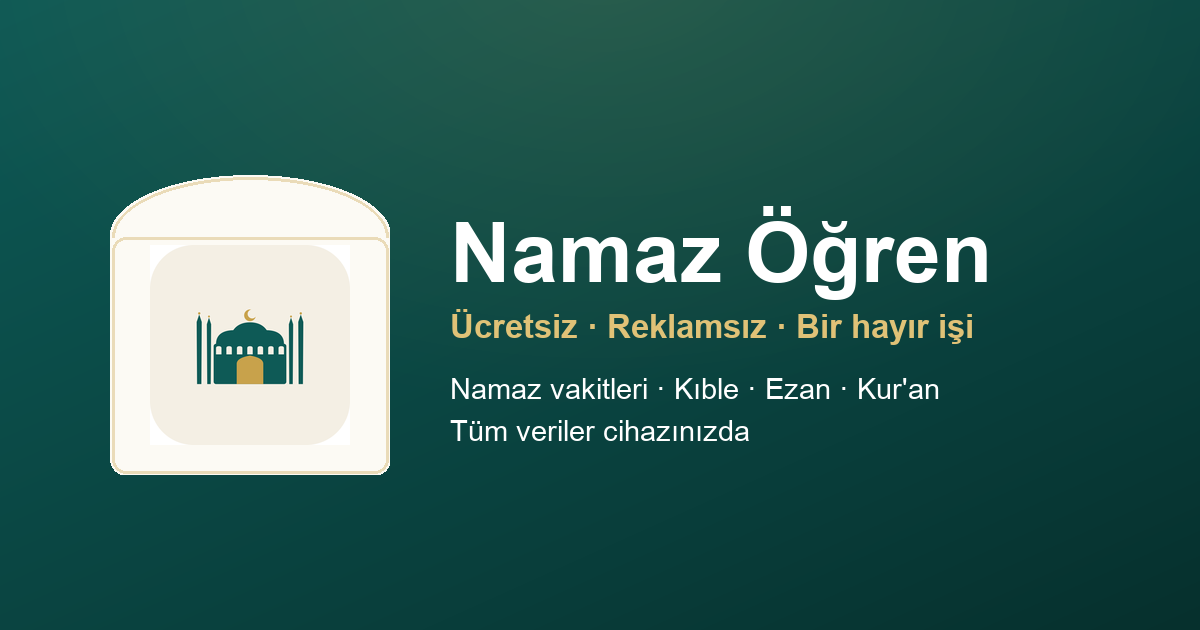
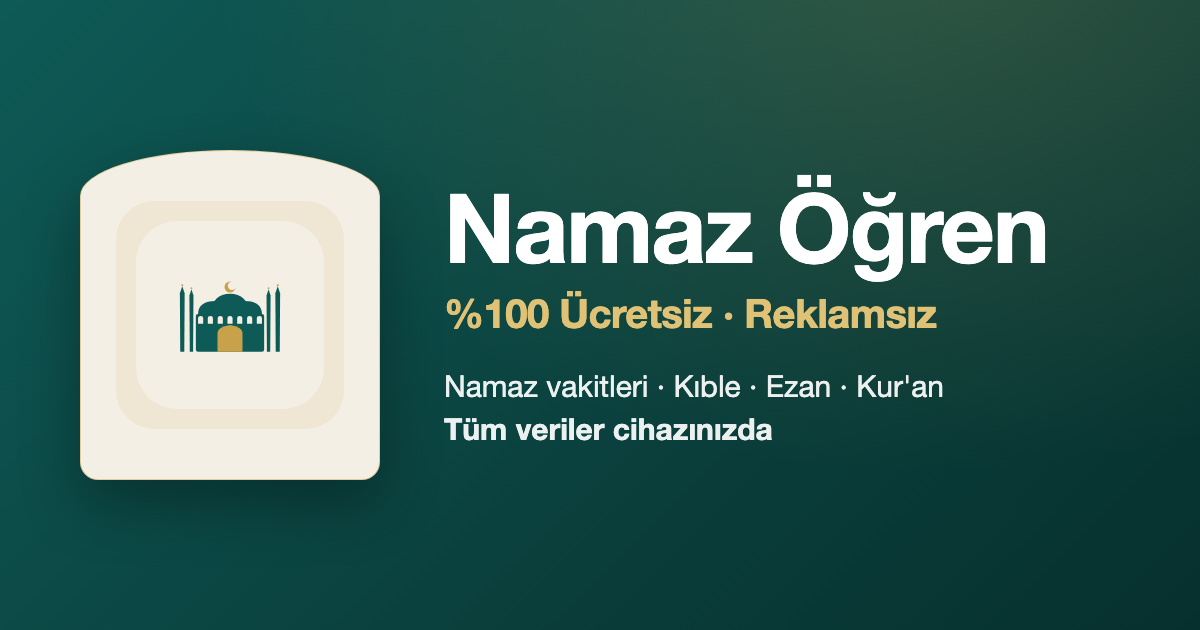
"Hayır işi / sadaka-i câriye" ifadeleri kaldırıldı → "%100 ücretsiz ve reklamsız"
Kullanıcı isteği: charity çerçevesi yerine sade "%100 ücretsiz · reklamsız" yeterli.

- Hero pill: "...· Bir hayır işi" → "...· Çevrimdışı çalışır" (🤲 kaldırıldı)
- Ücretsiz bandı: hayır işi/sadaka-i câriye/hayır duası metni → sade ücretsiz mesajı
  (em 🤲 → 💚)
- SSS, JSON-LD (SoftwareApplication+Organization+FAQPage), og/twitter description:
  hayır/sadaka ibareleri temizlendi
- Footer (index + privacy): "Bir hayır işi olarak sunulmaktadır 🤲" → "%100 ücretsiz ve reklamsız"
- privacy özet: "hayır amaçlı" → "ücretsiz ve reklamsız"
- og.png yeniden üretildi: tagline "Bir hayır işi" → "%100 Ücretsiz · Reklamsız" (tasarım korundu)

Not: SSS'teki "Hayır." (=No) cevapları korundu; footer duası korundu.

diff --git a/index.html b/index.html
@@ -28,7 +28,7 @@
 <meta property="og:site_name" content="Namaz Öğren" />
 <meta property="og:locale" content="tr_TR" />
 <meta property="og:title" content="Namaz Öğren — Ücretsiz namaz rehberi" />
-<meta property="og:description" content="Namazı öğren, vakitleri kaçırma, kıbleyi bul, Kur'an oku. %100 ücretsiz, reklamsız, hayır işi. Tüm veriler cihazınızda." />
+<meta property="og:description" content="Namazı öğren, vakitleri kaçırma, kıbleyi bul, Kur'an oku. %100 ücretsiz ve reklamsız. Tüm veriler cihazınızda." />
 <meta property="og:url" content="https://namazogren.com/" />
 <meta property="og:image" content="https://namazogren.com/og.png" />
 <meta property="og:image:type" content="image/png" />
@@ -39,7 +39,7 @@
 <!-- Twitter / X -->
 <meta name="twitter:card" content="summary_large_image" />
 <meta name="twitter:title" content="Namaz Öğren — Ücretsiz namaz rehberi" />
-<meta name="twitter:description" content="Namaz vakitleri, kıble, ezan bildirimi, Kur'an ve bilgi testi. %100 ücretsiz, reklamsız, hayır işi." />
+<meta name="twitter:description" content="Namaz vakitleri, kıble, ezan bildirimi, Kur'an ve bilgi testi. %100 ücretsiz ve reklamsız." />
 <meta name="twitter:image" content="https://namazogren.com/og.png" />
 <meta name="twitter:image:alt" content="Namaz Öğren — ücretsiz, reklamsız namaz rehberi uygulaması" />
 
@@ -418,7 +418,7 @@ nav a, footer a{display:inline-flex;align-items:center;min-height:var(--tap);pad
       "name": "Namaz Öğren",
       "url": "https://namazogren.com/",
       "image": "https://namazogren.com/og.png",
-      "description": "Namazı sıfırdan öğreten; namaz vakitleri, ezan bildirimi, kıble pusulası, adım adım namaz rehberi, Kur'an okuma, hatim takibi, bilgi testi, zikirmatik, zekât hesaplama ve daha fazlasını sunan %100 ücretsiz ve reklamsız bir hayır uygulaması. Tüm veriler yalnızca cihazda saklanır.",
+      "description": "Namazı sıfırdan öğreten; namaz vakitleri, ezan bildirimi, kıble pusulası, adım adım namaz rehberi, Kur'an okuma, hatim takibi, bilgi testi, zikirmatik, zekât hesaplama ve daha fazlasını sunan %100 ücretsiz ve reklamsız bir uygulama. Tüm veriler yalnızca cihazda saklanır.",
       "applicationCategory": "LifestyleApplication",
       "operatingSystem": "iOS, Android",
       "inLanguage": ["tr", "en", "de", "ar"],
@@ -454,7 +454,7 @@ nav a, footer a{display:inline-flex;align-items:center;min-height:var(--tap);pad
       "name": "Namaz Öğren",
       "url": "https://namazogren.com/",
       "logo": "https://namazogren.com/logo.svg",
-      "description": "Namaz Öğren, bir sadaka-i câriye niyetiyle sunulan, %100 ücretsiz ve reklamsız bir namaz öğrenme uygulamasıdır.",
+      "description": "Namaz Öğren, %100 ücretsiz ve reklamsız bir namaz öğrenme uygulamasıdır.",
       "email": "[email redacted]",
       "contactPoint": {
         "@type": "ContactPoint",
@@ -466,7 +466,7 @@ nav a, footer a{display:inline-flex;align-items:center;min-height:var(--tap);pad
     {
       "@type": "FAQPage",
       "mainEntity": [
-        {"@type":"Question","name":"Uygulama gerçekten ücretsiz mi?","acceptedAnswer":{"@type":"Answer","text":"Evet, tamamen ve sonsuza kadar ücretsizdir. Ücretli sürüm, abonelik, ücretsiz deneme veya uygulama içi satın alma yoktur; hiçbir özellik kilitli değildir. Bir hayır işi olarak sunulur."}},
+        {"@type":"Question","name":"Uygulama gerçekten ücretsiz mi?","acceptedAnswer":{"@type":"Answer","text":"Evet, tamamen ve sonsuza kadar ücretsizdir. Ücretli sürüm, abonelik, ücretsiz deneme veya uygulama içi satın alma yoktur; hiçbir özellik kilitli değildir."}},
         {"@type":"Question","name":"Hesap açmam gerekiyor mu?","acceptedAnswer":{"@type":"Answer","text":"Hayır. Hesap, üyelik veya giriş yoktur; uygulamayı açar açmaz tüm özellikleri kullanabilirsiniz."}},
         {"@type":"Question","name":"İnternet olmadan çalışır mı?","acceptedAnswer":{"@type":"Answer","text":"Büyük ölçüde evet. Kur'an metni, namaz rehberi, sureler, dualar, hadis, siyer, esmâ ve test soruları cihaza gömülüdür ve çevrimdışı çalışır. Yalnızca ayet/kıraat sesini dinlemek için internet gerekir."}},
         {"@type":"Question","name":"Verilerim güvende mi?","acceptedAnswer":{"@type":"Answer","text":"Tüm verileriniz yalnızca cihazınızda saklanır. Bulut, sunucu, izleme veya veri satışı yoktur."}},
@@ -486,7 +486,7 @@ nav a, footer a{display:inline-flex;align-items:center;min-height:var(--tap);pad
     <span class="hero-arch"><img src="logo.svg" alt="Namaz Öğren logosu" width="84" height="84" fetchpriority="high" decoding="async" /></span>
     <h1>Namaz Öğren</h1>
     <p class="tag">Namazı sıfırdan, adım adım öğrenin; vakitleri, kıbleyi ve Kur'an'ı tek uygulamada takip edin. Reklamsız, hesapsız ve internetsiz de çalışır.</p>
-    <span class="pill"><span aria-hidden="true">🤲</span> %100 Ücretsiz · Reklamsız · Bir hayır işi</span>
+    <span class="pill">%100 Ücretsiz · Reklamsız · Çevrimdışı çalışır</span>
     <nav class="hero-cta" aria-label="Birincil">
       <a class="btn btn-primary" href="#indir">Ücretsiz indir</a>
       <a class="btn btn-ghost" href="#ozellikler">Neler var?</a>
@@ -603,12 +603,12 @@ nav a, footer a{display:inline-flex;align-items:center;min-height:var(--tap);pad
     </ul>
   </section>
 
-  <!-- ÜCRETSİZ / HAYIR BANDI -->
+  <!-- ÜCRETSİZ BANDI -->
   <section class="band" aria-labelledby="ucretsiz-h">
     <div class="wrap">
-      <div class="em" aria-hidden="true">🤲</div>
+      <div class="em" aria-hidden="true">💚</div>
       <h2 id="ucretsiz-h">Tamamen ücretsiz, sonsuza kadar</h2>
-      <p>Namaz Öğren bir <strong>hayır işi</strong> olarak sunulur. Ücret, abonelik, reklam veya gizli satın alma yoktur; bütün özellikler herkese açıktır. Niyetimiz, faydası kesilmeyen bir <strong>sadaka-i câriye</strong> bırakmaktır. Tek dileğimiz, hayır dualarınızda bizi hatırlamanızdır.</p>
+      <p>Ücret, abonelik, reklam veya gizli satın alma <strong>yoktur</strong>; bütün özellikler herkese açık ve kilitsizdir. <strong>%100 ücretsiz ve reklamsız</strong> — sonsuza kadar, herkese.</p>
     </div>
   </section>
 
@@ -703,7 +703,7 @@ nav a, footer a{display:inline-flex;align-items:center;min-height:var(--tap);pad
     <div class="faq">
       <details>
         <summary>Uygulama gerçekten tamamen ücretsiz mi? Sonradan ücret çıkar mı?</summary>
-        <p>Evet, %100 ücretsiz — sonsuza kadar. Abonelik, gizli satın alma, ücretli "premium" kademe veya reklam yoktur. Namaz Öğren bir hayır işi, bir sadaka-i câriye niyetiyle sunulur. Tüm özellikler herkese açıktır.</p>
+        <p>Evet, %100 ücretsiz — sonsuza kadar. Abonelik, gizli satın alma, ücretli "premium" kademe veya reklam yoktur. Tüm özellikler herkese açıktır, hiçbiri kilitli değildir.</p>
       </details>
       <details>
         <summary>Hesap açmam veya giriş yapmam gerekiyor mu?</summary>
@@ -752,7 +752,7 @@ nav a, footer a{display:inline-flex;align-items:center;min-height:var(--tap);pad
     <a href="privacy.html">Gizlilik</a>
     <a href="mailto:[email redacted]">İletişim</a>
   </nav>
-  <p>© 2026 Namaz Öğren · Bir hayır işi olarak sunulmaktadır <span aria-hidden="true">🤲</span></p>
+  <p>© 2026 Namaz Öğren · %100 ücretsiz ve reklamsız</p>
   <p class="dua">Rabbim, bu vesileyle namaza başlayan herkesi makbul kullarından eylesin.</p>
 </footer>
 </body>

diff --git a/privacy.html b/privacy.html
@@ -90,7 +90,7 @@
     <p class="updated">Uygulama: <strong>Namaz Öğren</strong> · Son güncelleme: 4 Haziran 2026</p>
 
     <div class="box">
-      <strong>Özet:</strong> Namaz Öğren tamamen ücretsiz, hayır amaçlı bir uygulamadır.
+      <strong>Özet:</strong> Namaz Öğren tamamen ücretsiz ve reklamsız bir uygulamadır.
       <strong>Reklam yok, izleme yok, hesap yok, bulut yok, veri satışı yok.</strong>
       Tüm verileriniz yalnızca <strong>kendi cihazınızda</strong> saklanır.
     </div>
@@ -138,7 +138,7 @@
     <p>Sorularınız için: <a href="mailto:[email redacted]">[email redacted]</a></p>
 
     <footer>
-      <p>© 2026 Namaz Öğren · Bir hayır işi olarak sunulmaktadır <span aria-hidden="true">🤲</span></p>
+      <p>© 2026 Namaz Öğren · %100 ücretsiz ve reklamsız</p>
     </footer>
   </main>
 </body>